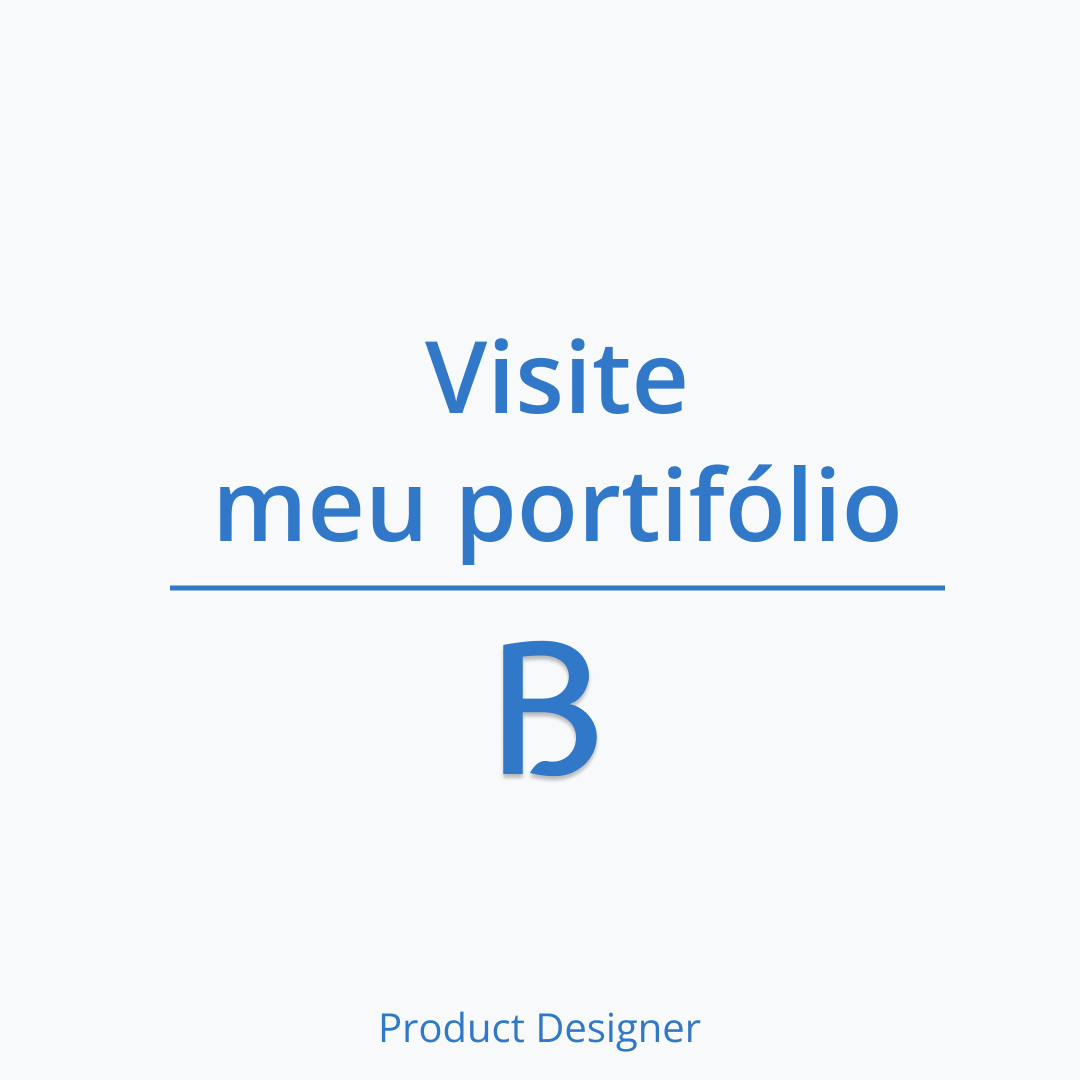
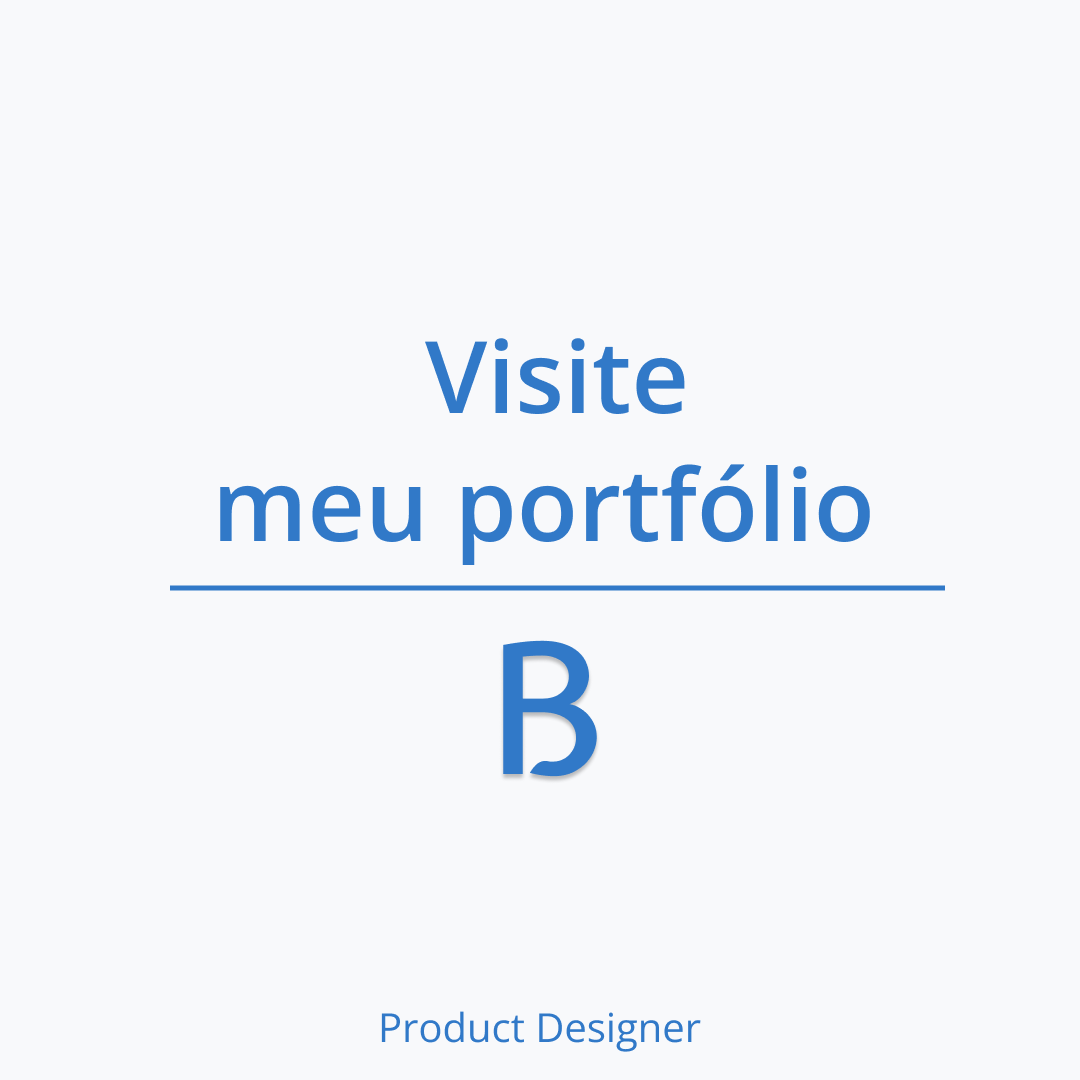
Update Text e Image Link version 08.07.23

Changed region(s): [[0.6111, 0.4278, 0.8556, 0.5194]]

diff --git a/index.html b/index.html
@@ -130,11 +130,11 @@
                          clase bs-display-text faz o tempo desce e nao ficar na navbar
                      -->
                     <div
-                        class="col-sm-12  col-md-10 offset-md-1 col-lg-4 offset-lg-1 col-xl-3 offset-xl-2 bs-display-text text-justify">
+                        class="col-sm-12  col-md-10 offset-md-1 col-lg-4 offset-lg-1 col-xl-3 offset-xl-2 bs-display-text">
 
                         <h1 class="bs-title bs-text-blue bs-title-xlarge">Olá!</h1>
 
-                        <h4 class="bs-text-light text-justify"  target="_blank">Sou Bruno Alcantara, Product Designer ajudando as empresas na construção de bons produtos digitais alinhados aos objetivos de negocio e nas necessidades dos usuários. <span class="bs-text-blue"><b><a href="https://maida.health/nossas-solucoes/ihealth" target="_blank"></b></span></h4>
+                        <h4 class="bs-text-light text-left"  target="_blank">Sou Bruno Alcantara, Product Designer generalista especializado em produtos digitais com foco no usuário e conhecimento em estratégias de negócios, posso impulsionar o sucesso da sua empresa. Vamos construir uma experiência digital incrível juntos!<span class="bs-text-blue"><b><a href="https://maida.health/nossas-solucoes/ihealth" target="_blank"></b></span></h4>
                          
                         
                         <a href="CV-Bruno-Alcantara.pdf" class="bs-btn bs-btn-large bs-btn-green bs-mar-top-15 bs-toggle-modal" type="application/pdf" target="_blank">

diff --git a/pages/sobre.html b/pages/sobre.html
@@ -118,7 +118,7 @@
                         </div>
                         <div class="bs-info-sobre bs-text-light para-sobre">
                             <h4 class="bs-subtitle bs-text-blue bs-mar-bottom-15">Um pouco sobre mim</h4>
-                            <p class="para-sobre"> 
+                            <p class="para-sobre text-left"> 
                                 Meu nome é Bruno Alcantara, sou um Product Designer apaixonado por tecnologia e inovação. Busco constantemente evolução e novos desafios, 
                                 tanto pessoais quanto profissionais. Em meus projetos, prezo pela organização e metas claras para garantir o sucesso e manter a equipe alinhada. 
                                 Se precisar de ajuda para alcançar seus objetivos, estou aberto a novas oportunidades.

diff --git a/css/main.css b/css/main.css
@@ -819,8 +819,6 @@ filter: progid:DXImageTransform.Microsoft.gradient( startColorstr='#000000', end
         margin-top: 130px;
     }
 
-    
-
     .bs-portfolio-list .bs-portfolio-item:nth-child(odd) .bs-portfolio-item-info .bs-btn, .bs-portfolio-list .bs-portfolio-item:nth-child(even) .bs-portfolio-item-info .bs-btn{
         float: none;
         margin: 0 auto;
@@ -1641,6 +1639,7 @@ filter: progid:DXImageTransform.Microsoft.gradient( startColorstr='#000000', end
 
 .bs-title {
     font-family: 'Newsreader', serif;
+    text-align: left;
     /*font-family: 'Archivo', sans-serif;*/
     /*font-family: 'Poppins', sans-serif;/*
     /*font-family: 'Cherry Swash', cursive;*/

diff --git a/pages/portfolio/lolla.html b/pages/portfolio/lolla.html
@@ -280,7 +280,7 @@
 
                                 <div class="col-sm-12 col-md-8 offset-md-2 bs-text-center bs-text-light bs-mar-bottom-15 bs-mar-top-30" data-aos-offset="300" data-aos="fade-up">
                                     <!-- TEXTO DESAFIO -->
-                                    <h2 class="bs-title bs-title-medium bs-text-blue bs-mar-bottom-15 ">Análise da concorrência.
+                                    <h2 class="bs-title bs-title-medium bs-text-blue bs-mar-bottom-15 ">Análise da concorrência
 
                                     </h2>
                                     <P>
